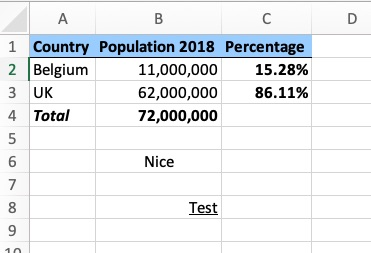
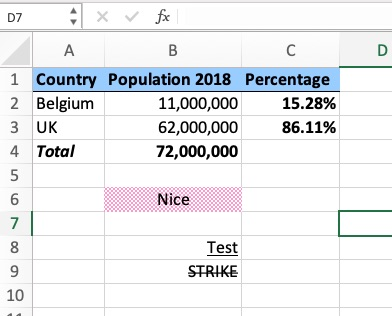
resolve #20 expand Excel Style

Changed region(s): [[0.0, 0.0, 1.0, 1.0]]

diff --git a/utils-excel/src/main/java/net/objectlab/kit/util/excel/ExcelStyle.java b/utils-excel/src/main/java/net/objectlab/kit/util/excel/ExcelStyle.java
@@ -26,8 +26,11 @@ public class ExcelStyle {
     private final boolean percentFormat;
     private final boolean wrap;
     private final boolean header;
+    private final boolean strikeout;
     private final String dataFormat;
     private final IndexedColors fontColour;
+    private final IndexedColors backgroundColour;
+    private final FillPatternType backgroundFillPatternType;
 
     public static Builder builder() {
         return new Builder();
@@ -44,8 +47,11 @@ public class ExcelStyle {
         percentFormat = b.percentFormat;
         wrap = b.wrap;
         header = b.header;
+        strikeout = b.strikeout;
         dataFormat = b.dataFormat;
         fontColour = b.fontColour;
+        backgroundColour = b.backgroundColour;
+        backgroundFillPatternType = b.backgroundFillPatternType;
     }
 
     public CellStyle build(ExcelCell cell) {
@@ -66,12 +72,17 @@ public class ExcelStyle {
 
         addFormat(cell, cellStyle);
 
+        if (backgroundColour != null) {
+            cellStyle.setFillForegroundColor(backgroundColour.getIndex());
+            cellStyle.setFillPattern(backgroundFillPatternType != null ? backgroundFillPatternType : FillPatternType.SOLID_FOREGROUND);
+        }
+
         addAlignment(cellStyle);
         return cellStyle;
     }
 
     private void addFontFormat(ExcelCell cell, CellStyle cellStyle) {
-        if (bold || italic || underline || header || fontColour != null) {
+        if (bold || italic || underline || header || fontColour != null || strikeout) {
             Font f = cell.workbook().createFont();
             f.setBold(bold || header);
             if (underline) {
@@ -81,6 +92,7 @@ public class ExcelStyle {
                 f.setColor(fontColour.getIndex());
             }
             f.setItalic(italic);
+            f.setStrikeout(strikeout);
             cellStyle.setFont(f);
         }
     }
@@ -119,11 +131,29 @@ public class ExcelStyle {
         private boolean percentFormat;
         private boolean wrap;
         private boolean header;
+        private boolean strikeout;
         private String dataFormat;
         private IndexedColors fontColour;
+        private IndexedColors backgroundColour;
+        private FillPatternType backgroundFillPatternType = FillPatternType.SOLID_FOREGROUND;
+
+        public Builder backgroundFillPatternType(FillPatternType backgroundFillPatternType) {
+            this.backgroundFillPatternType = backgroundFillPatternType;
+            return this;
+        }
+
+        public Builder backgroundColour(IndexedColors backgroundColour) {
+            this.backgroundColour = backgroundColour;
+            return this;
+        }
 
         public Builder fontColour(IndexedColors fontColour) {
             this.fontColour = fontColour;
+            return this;
+        }
+
+        public Builder strikeout() {
+            strikeout = true;
             return this;
         }
 

diff --git a/utils-excel/src/test/java/net/objectlab/kit/util/excel/gist/ExcelInMemoryExample.java b/utils-excel/src/test/java/net/objectlab/kit/util/excel/gist/ExcelInMemoryExample.java
@@ -3,6 +3,9 @@ package net.objectlab.kit.util.excel.gist;
 import java.io.IOException;
 import java.math.BigDecimal;
 
+import org.apache.poi.ss.usermodel.FillPatternType;
+import org.apache.poi.ss.usermodel.IndexedColors;
+
 import net.objectlab.kit.util.excel.ExcelStyle;
 import net.objectlab.kit.util.excel.ExcelWorkbook;
 
@@ -27,8 +30,12 @@ public class ExcelInMemoryExample {
                 .newRow() // TOTAL
                 .newCell("Total").style(ExcelStyle.builder().bold().italic().build()).newCell(72_000_000L).style(BOLD_NUMERIC_STYLE) //
                 .autoSizeColumn(0, 1) //
-                .row().sheet().skipRow().newRow().skipCol().newCell("Nice").style(ExcelStyle.builder().center().build())//
+
+                .row().sheet().skipRow().newRow().skipCol().newCell("Nice").style(ExcelStyle.builder().center()//
+                        .backgroundColour(IndexedColors.ROSE)//
+                        .backgroundFillPatternType(FillPatternType.BIG_SPOTS).build())//
                 .newRow(7).newCell().newCell("Test").style(ExcelStyle.builder().underline().right().build())//
+                .newRow(8).newCell().newCell("STRIKE").style(ExcelStyle.builder().strikeout().right().build())//
                 .save("test.xlsx"); // Save it
     }
 }
